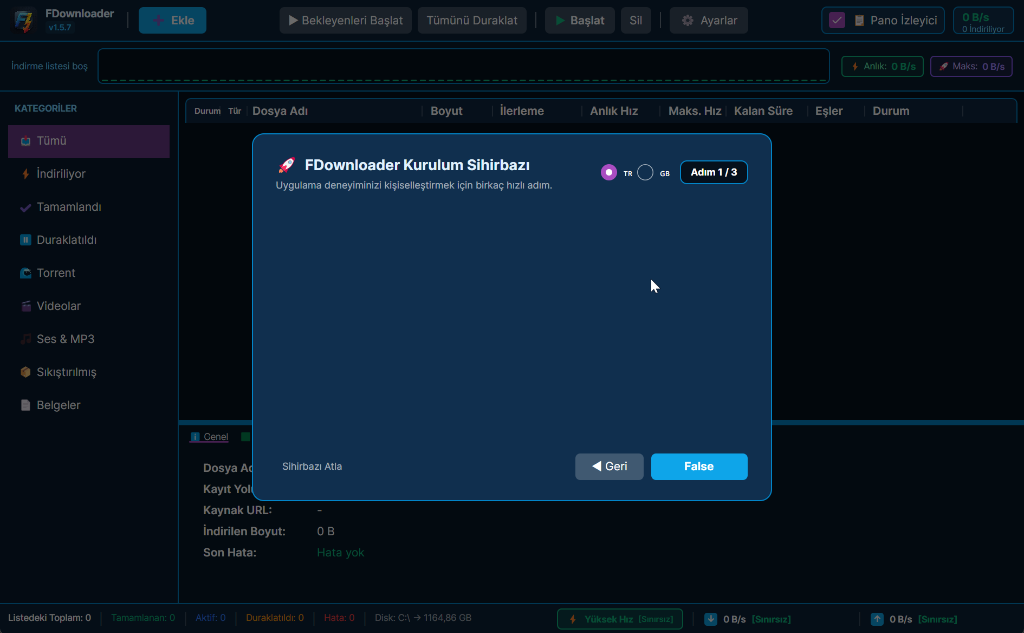
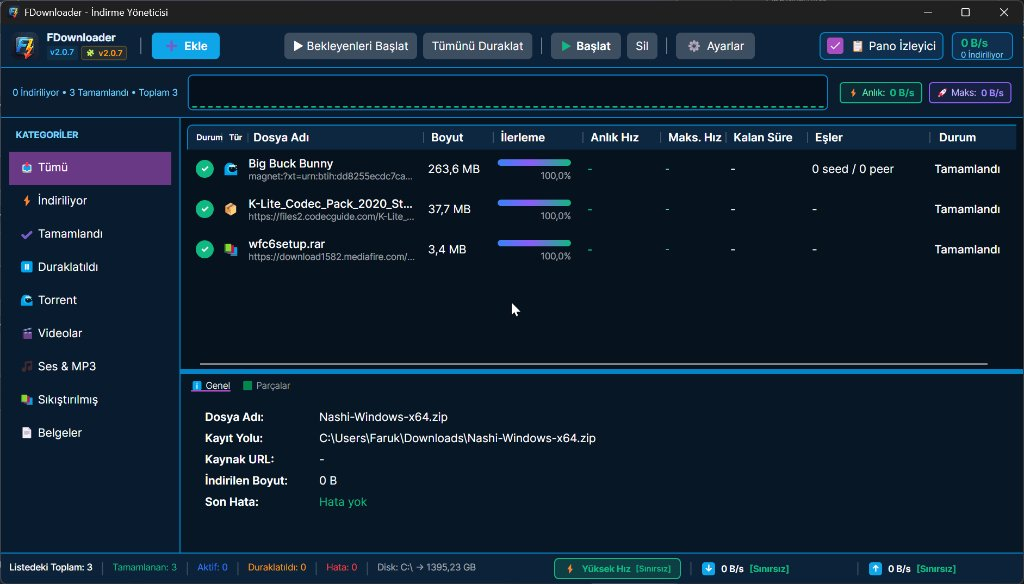
feat(release): v2.0.9 README guncel ekran goruntusu ve Facebook baglanti kopmasi duzeltmesi

diff --git a/tools/browser-extension/content.js b/tools/browser-extension/content.js
@@ -351,16 +351,7 @@
 
     const isFacebook = host.includes("facebook.com") || host.includes("fb.watch");
     if (isFacebook) {
-      // 1. Doğrudan video elementi src veya currentSrc fbcdn / mp4 URL'si içeriyorsa
-      const src = video.currentSrc || video.src || "";
-      if (src && !src.startsWith("blob:") && !src.startsWith("data:")) {
-        return {
-          url: src,
-          filename: document.title ? document.title.replace(/\s*\|\s*Facebook$/i, "").trim() + ".mp4" : "Facebook Video.mp4"
-        };
-      }
-
-      // 2. Feed veya kart üzerindeki kalıcı Reel / Watch / Post video URL'sini bul
+      // 1. Feed veya kart üzerindeki kalıcı Reel / Watch / Post video URL'sini bul (yt-dlp için en stabil ve kopmayan yöntem)
       let postLink = null;
       try {
         const container = video.closest("div[role='feed'], div[role='article'], div[data-pagelet], div[aria-label*='Video'], div.x1y1aw1k, [data-video-id], div[data-nosnippet]") || video.parentElement;
@@ -382,7 +373,7 @@
         }
       } catch (e) { }
 
-      // 3. Sayfa URL'sinin kendisi geçerli bir video/reel sayfası mı? (Hashtag/Search hariç)
+      // 2. Sayfa URL'sinin kendisi geçerli bir video/reel sayfası mı? (Hashtag/Search hariç)
       const loc = window.location.href;
       const isWatchOrReelPage = (loc.includes("/reel/") || loc.includes("/watch/") || loc.includes("/videos/") || loc.includes("fb.watch")) &&
                                 !loc.includes("/hashtag/") && !loc.includes("/search/");
@@ -391,6 +382,15 @@
       if (bestMediaUrl) {
         return {
           url: bestMediaUrl,
+          filename: document.title ? document.title.replace(/\s*\|\s*Facebook$/i, "").trim() + ".mp4" : "Facebook Video.mp4"
+        };
+      }
+
+      // 3. Doğrudan video elementi src veya currentSrc fbcdn / mp4 URL'si içeriyorsa
+      const src = video.currentSrc || video.src || "";
+      if (src && !src.startsWith("blob:") && !src.startsWith("data:")) {
+        return {
+          url: src,
           filename: document.title ? document.title.replace(/\s*\|\s*Facebook$/i, "").trim() + ".mp4" : "Facebook Video.mp4"
         };
       }
@@ -409,7 +409,7 @@
         }
       } catch (_) { }
 
-      // 5. Son çare: Post linki veya mevcut konum
+      // 5. Son çare: Post linki veya mevcut sayfa URL'si
       return {
         url: postLink || window.location.href,
         filename: document.title ? document.title.replace(/\s*\|\s*Facebook$/i, "").trim() + ".mp4" : "Facebook Video.mp4"

diff --git a/src/FDownloader.Core/Video/YtDlpMediaService.cs b/src/FDownloader.Core/Video/YtDlpMediaService.cs
@@ -201,6 +201,18 @@ public sealed class YtDlpMediaService : IDisposable
         list.Add("--extractor-args");
         list.Add("youtube:player_client=web,default,android");
 
+        // Ağ ve bağlantı kopmalarına karşı yüksek tolerans & otomatik yeniden deneme (Facebook, TikTok, CDN akışları)
+        list.Add("--retries");
+        list.Add("15");
+        list.Add("--fragment-retries");
+        list.Add("15");
+        list.Add("--socket-timeout");
+        list.Add("30");
+        list.Add("--file-access-retries");
+        list.Add("5");
+        list.Add("--user-agent");
+        list.Add("Mozilla/5.0 (Windows NT 10.0; Win64; x64) AppleWebKit/537.36 (KHTML, like Gecko) Chrome/124.0.0.0 Safari/537.36");
+
         return list;
     }
 

diff --git a/src/FDownloader.App/ViewModels/MainViewModel.cs b/src/FDownloader.App/ViewModels/MainViewModel.cs
@@ -2749,7 +2749,7 @@ public partial class MainViewModel : ViewModelBase, IDisposable
 
 
 
-    public const string TargetExtensionVersion = "2.0.8";
+    public const string TargetExtensionVersion = "2.0.9";
 
 
 
@@ -15366,5 +15366,6 @@ public class TempFileInfoItem : CommunityToolkit.Mvvm.ComponentModel.ObservableO
     public bool IsSelected { get => _isSelected; set => SetProperty(ref _isSelected, value); }
 
 }
+
 
 

diff --git a/RELEASE_NOTES.md b/RELEASE_NOTES.md
@@ -1,6 +1,7 @@
-### 🚀 FDownloader v2.0.8 Yenilikleri & Düzeltmeleri:
+### 🚀 FDownloader v2.0.9 Yenilikleri & Düzeltmeleri:
 
-• 🧩 **Gerçek Eklenti Durumu & "Kurulu Değil" Gösterimi:**
-  - Güncelleme penceresinde ve sistemde eklenti bağlı/kurulu değilken yanıltıcı biçimde `v1.0.0` yazması sorunu giderildi.
-  - Eklenti tarayıcıda açık ve bağlı değilse kırmızı rozet ile açıkça **"Kurulu Değil / Bağlı Değil"** olarak gösterilmesi sağlandı.
-  - Hedef sürüm her zaman güncel sistem sürümüyle (`v2.0.8`) tam senkronize hale getirildi.
+• 📸 **README Görsel Güncellemesi:**
+  - `README.md` ana sayfasındaki ekran görüntüsü güncel **v2.0.8** arayüzü, indirme listesi ve sürüm rozetleri ile yenilendi.
+• 🌐 **Facebook & Sosyal Medya İndirmelerinde Bağlantı Kopma Koruması:**
+  - Facebook, Instagram vb. platformlarda CDN'lerin geçici token süre sonu veya ağ kesintilerine karşı otomatik yeniden deneme (retries: 15, fragment-retries: 15, socket-timeout: 30s) yapılandırması eklendi.
+  - Tarayıcı eklentisinde Facebook videoları için geçici blob/fbcdn parçaları yerine öncelikle kalıcı Watch / Reel / Post URL'sinin yakalanması sağlanarak indirme motoruyla kayıpsız, tam çözünürlüklü ve kopmayan indirme güvence altına alındı.

diff --git a/README.md b/README.md
@@ -125,3 +125,4 @@ Bu proje [MIT Lisansı](LICENSE) kapsamında geliştirilmektedir.
 
 
 
+
